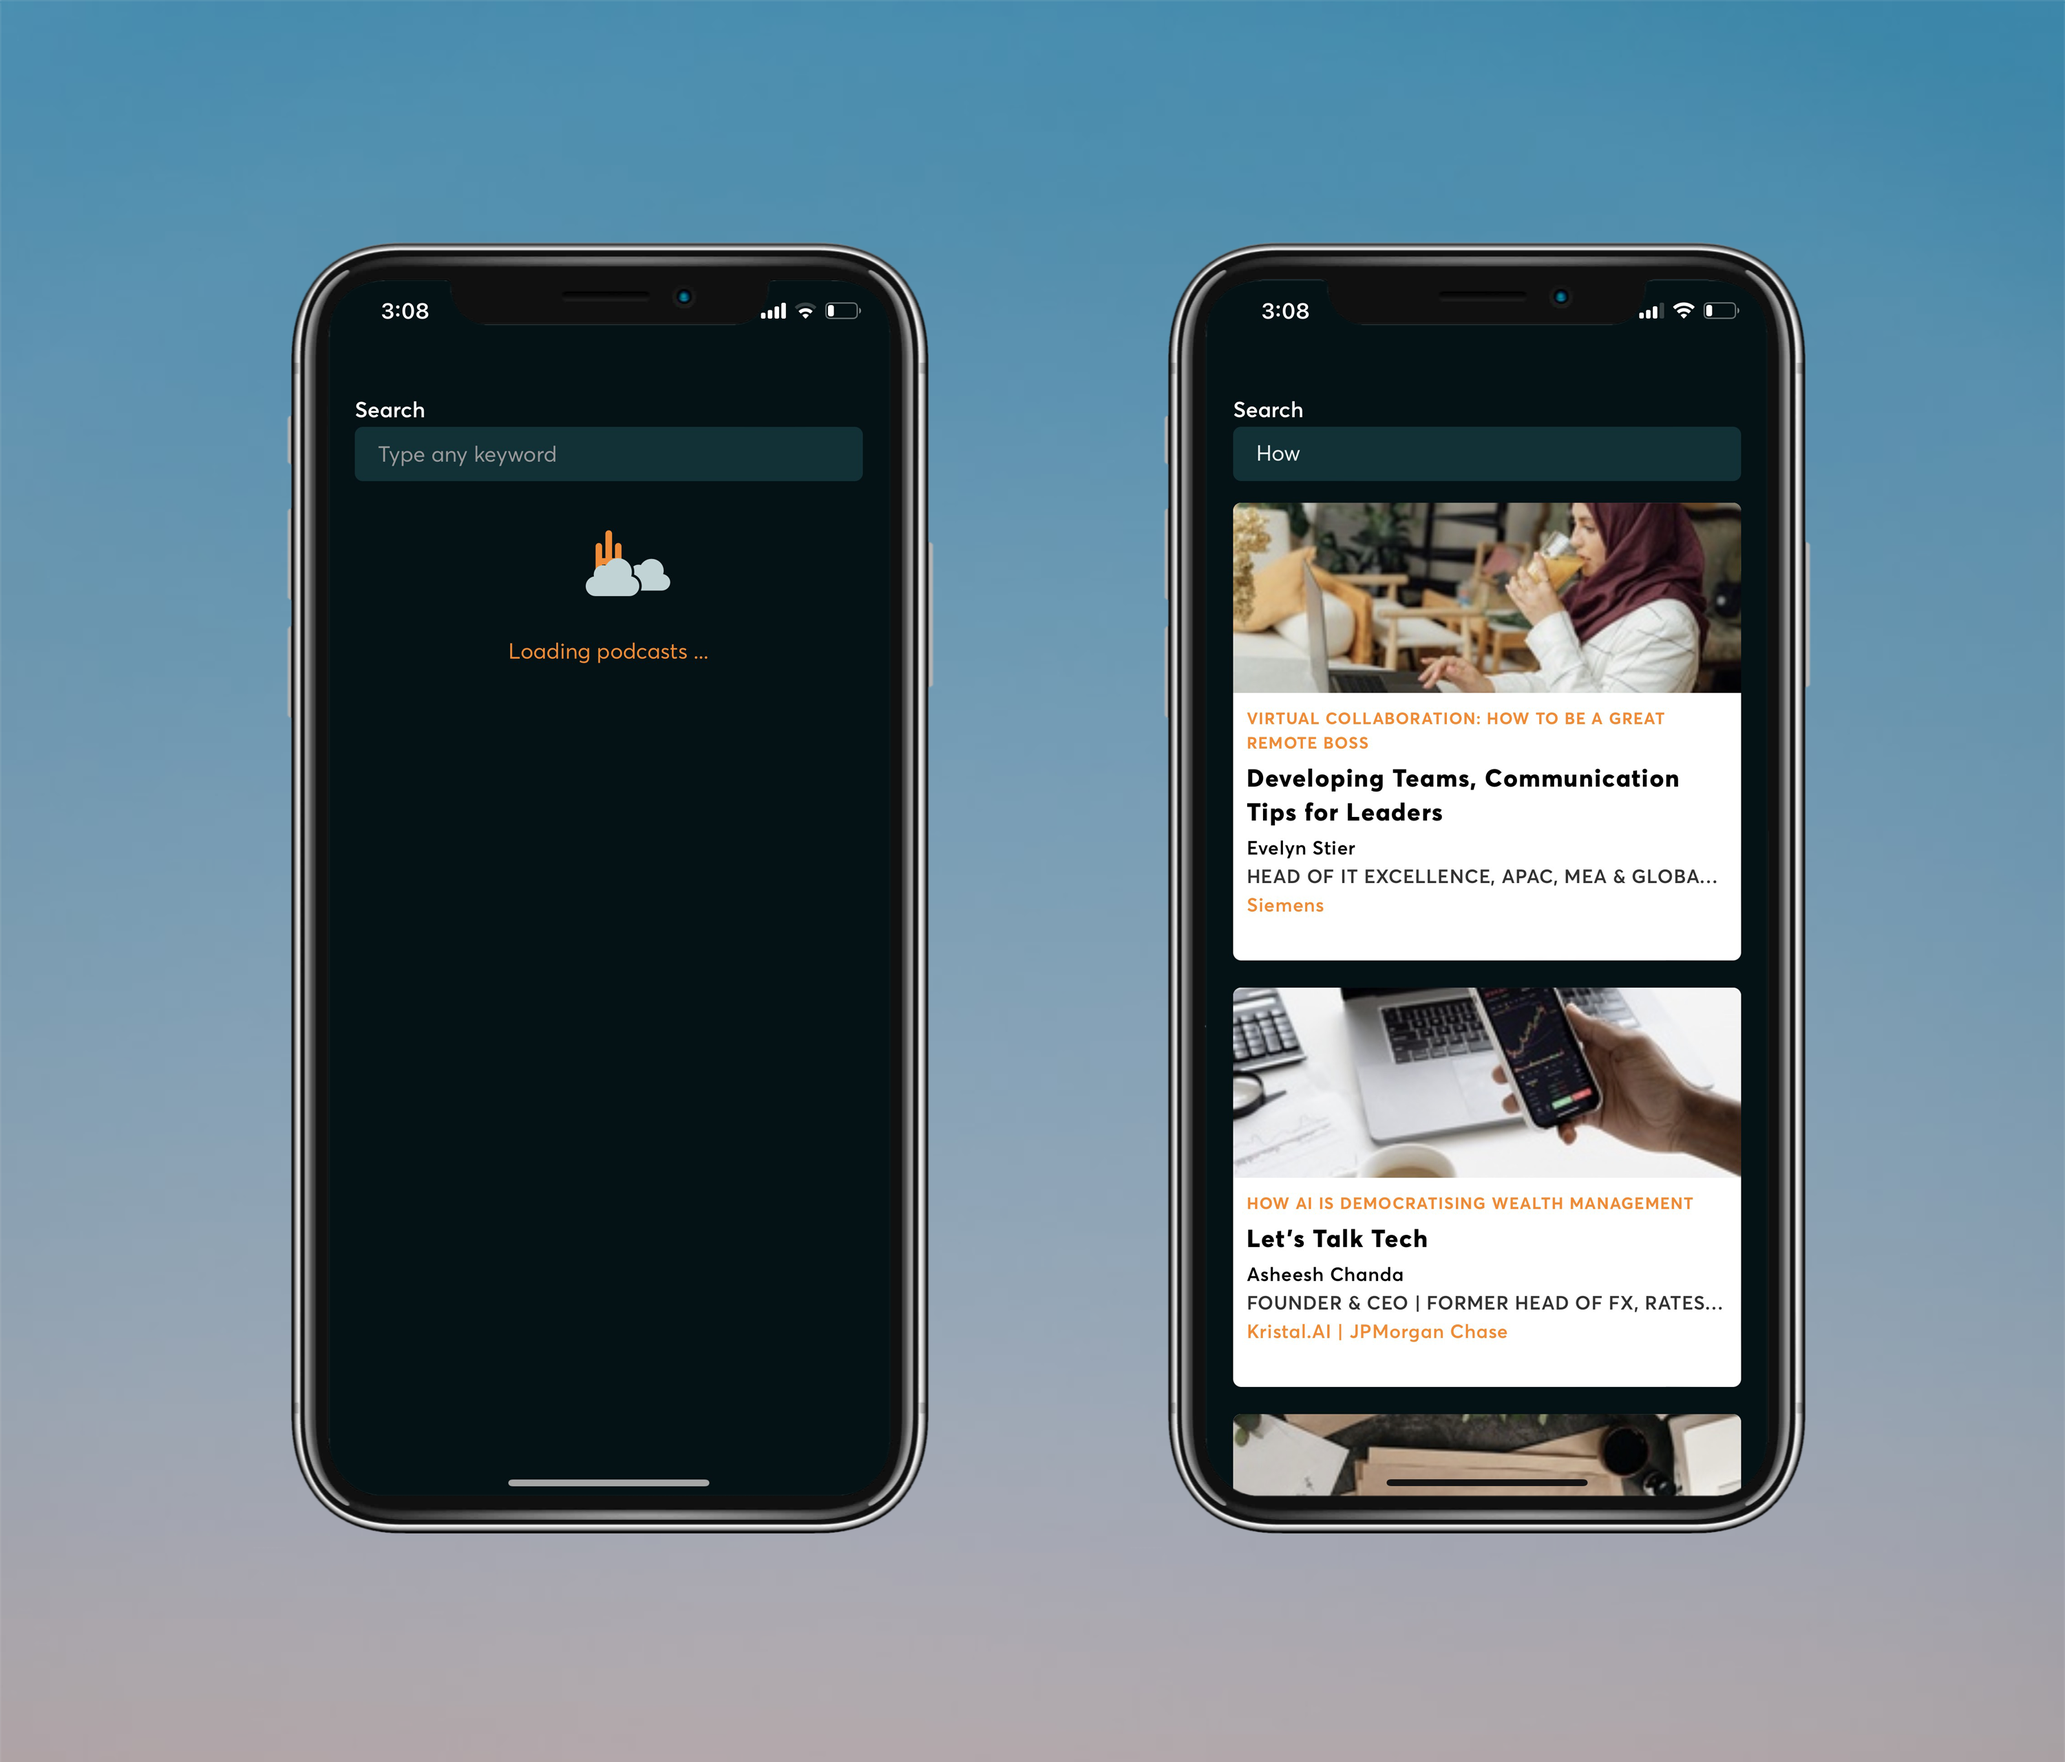
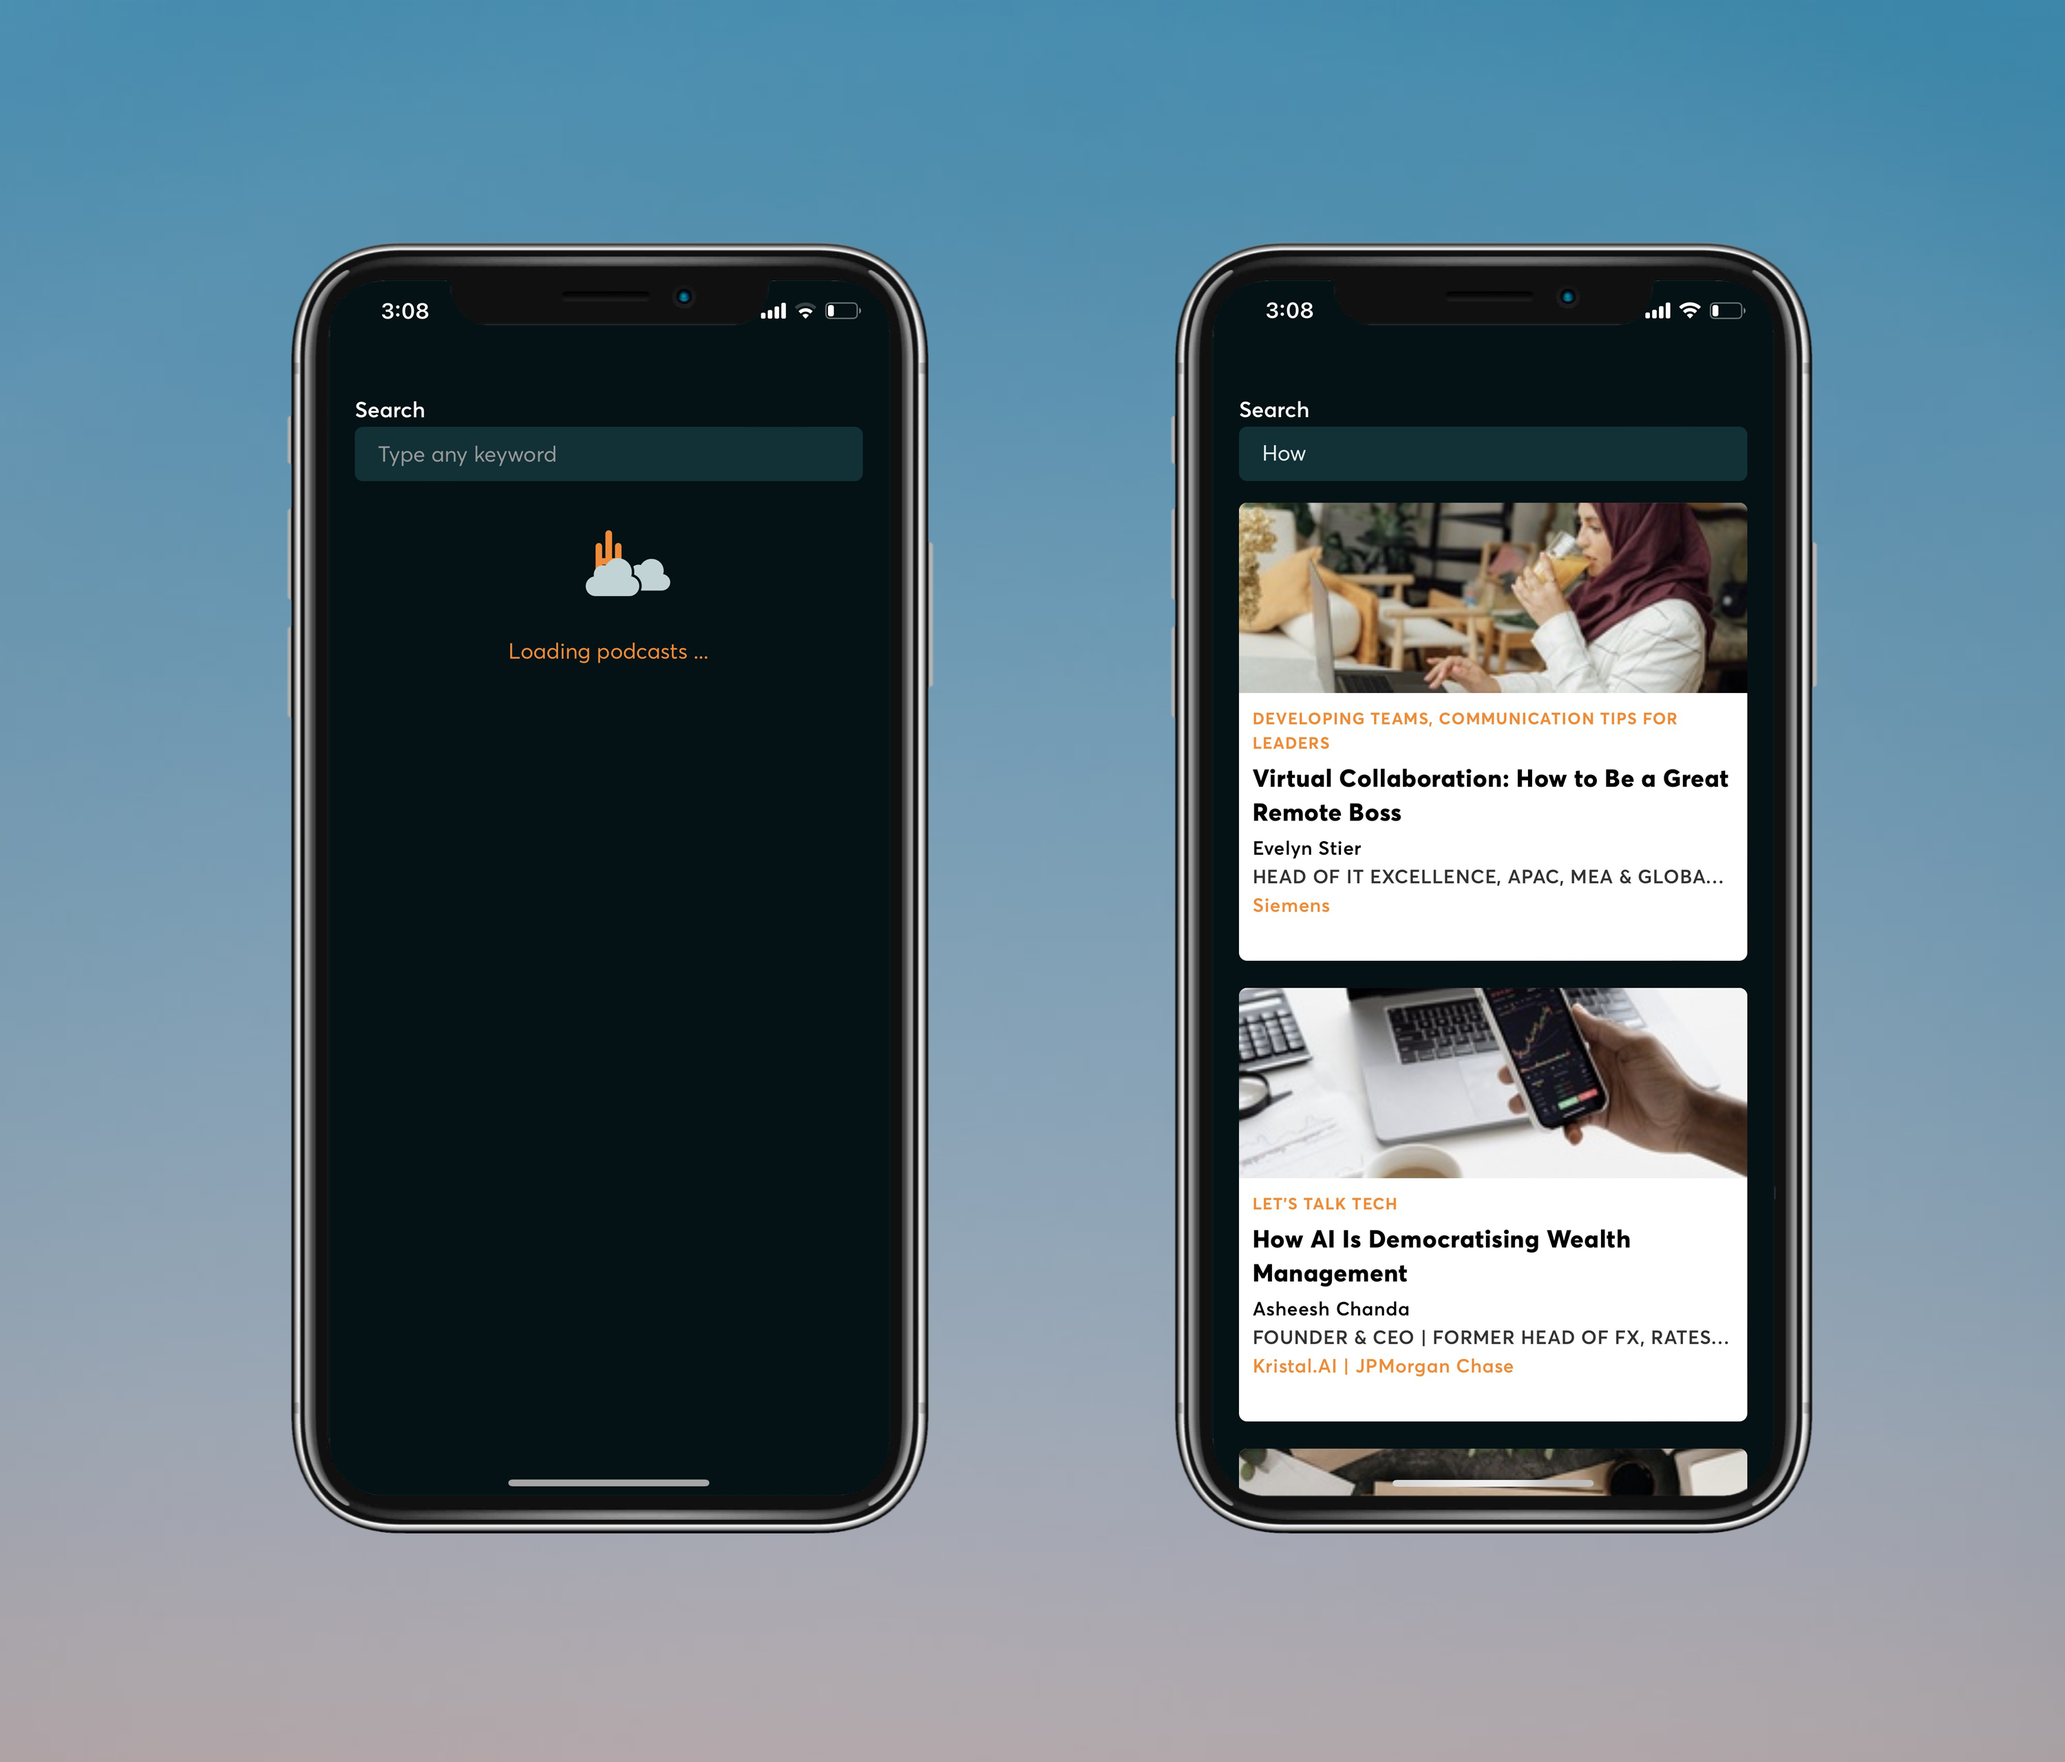
Minor display change with updated showcase image

Changed region(s): [[0.558, 0.125, 0.899, 0.875], [0.62, 0.1562, 0.651, 0.1875], [0.589, 0.125, 0.62, 0.1562]]

diff --git a/public/index.html b/public/index.html
@@ -4,7 +4,7 @@
     <meta charset="utf-8" />
     <link rel="icon" href="%PUBLIC_URL%/favicon.ico" />
     <meta name="viewport" content="width=device-width, initial-scale=1" />
-    <meta name="theme-color" content="#ff8615" />
+    <meta name="theme-color" content="#001315" />
     <meta name="description" content="Level up your Enterprise or Team via actionable insights &amp; bite-sized content from 800+ Global Experts">
     <meta name="apple-mobile-web-app-capable" content="yes">
     <meta name="apple-mobile-web-app-status-bar-style" content="black-translucent">

diff --git a/src/components/Podcasts/ContentCard.jsx b/src/components/Podcasts/ContentCard.jsx
@@ -40,17 +40,17 @@ const ContentCard = ({ contentData }) => {
           color='tigerHallOrange'
           mb={1}
         >
-          {name}
+          {categories.map(({ name }) => name).join(', ')}
         </Text>
         <Text
           as='h3'
           fontSize='lg'
           fontWeight='extrabold'
-          letterSpacing='wider'
+          letterSpacing='wide'
           lineHeight={1.4}
           mb={1}
         >
-          {categories.map(({ name }) => name).join(', ')}
+          {name}
         </Text>
         <Box
           fontSize='sm'
